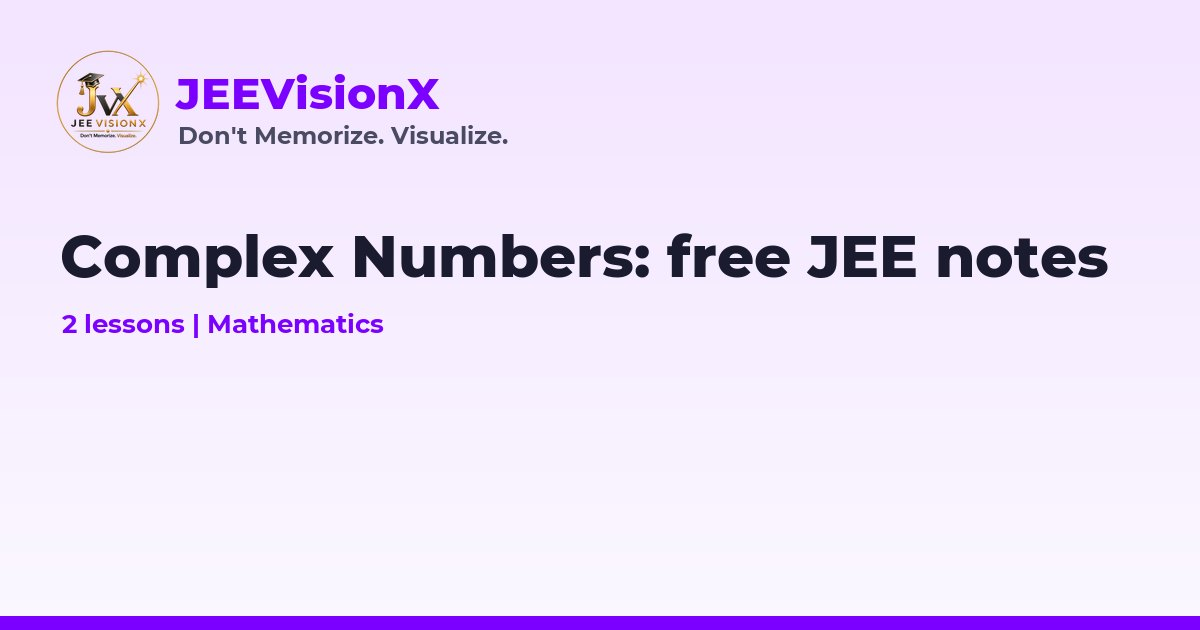
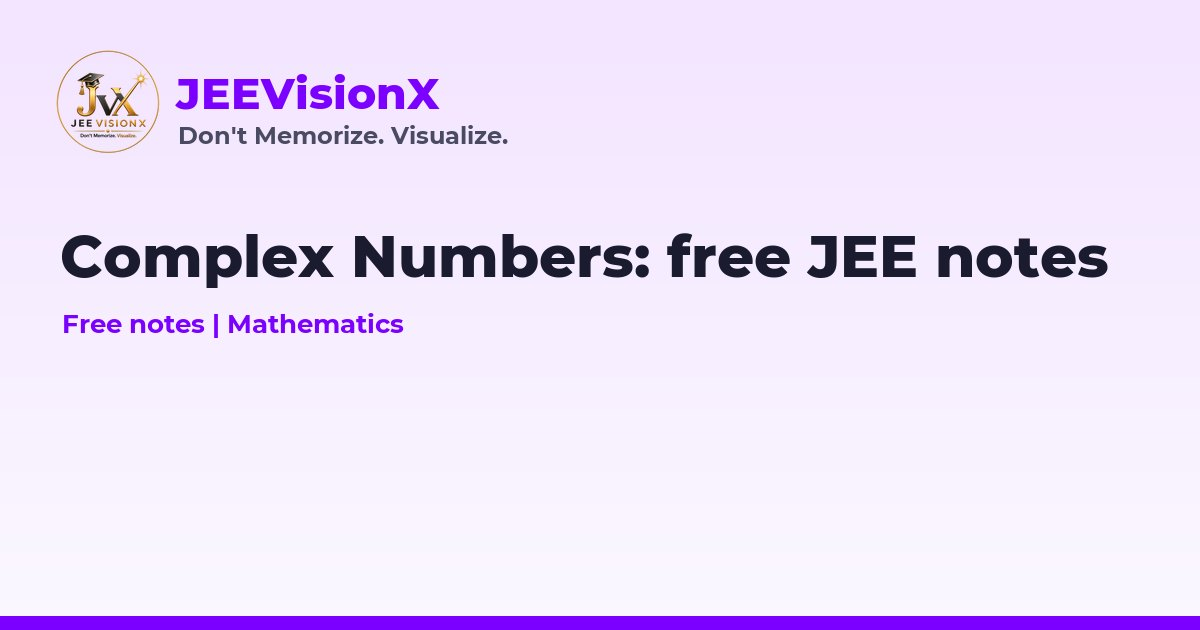
Notes listed only once the lesson's video is public; the next lesson shows as locked with its release time

Changed region(s): [[0.0308, 0.4825, 0.3392, 0.5429]]

diff --git a/maths/complex-numbers/index.html b/maths/complex-numbers/index.html
@@ -27,7 +27,7 @@
 <link rel="preconnect" href="https://fonts.gstatic.com" crossorigin>
 <link href="https://fonts.googleapis.com/css2?family=Montserrat:wght@600;800&family=Open+Sans:wght@400;600;700;800&display=swap" rel="stylesheet">
 <link rel="stylesheet" href="/assets/style.css">
-<script type="application/ld+json">{"@context": "https://schema.org", "@type": "CollectionPage", "name": "Complex Numbers notes", "url": "https://www.jeevisionx.com/maths/complex-numbers/", "description": "Complex numbers drawn on the Argand plane: modulus, argument, rotation and locus, one idea per lesson.", "isPartOf": {"@id": "https://www.jeevisionx.com/#website"}, "mainEntity": {"@type": "ItemList", "itemListElement": [{"@type": "ListItem", "position": 1, "url": "https://www.jeevisionx.com/maths/complex-numbers/m001-modulus-and-argument/", "name": "Modulus and Argument of a Complex Number"}, {"@type": "ListItem", "position": 2, "url": "https://www.jeevisionx.com/maths/complex-numbers/m002-multiplication-as-rotation/", "name": "Multiplication of Complex Numbers as Rotation"}]}}</script>
+<script type="application/ld+json">{"@context": "https://schema.org", "@type": "CollectionPage", "name": "Complex Numbers notes", "url": "https://www.jeevisionx.com/maths/complex-numbers/", "description": "Complex numbers drawn on the Argand plane: modulus, argument, rotation and locus, one idea per lesson.", "isPartOf": {"@id": "https://www.jeevisionx.com/#website"}, "mainEntity": {"@type": "ItemList", "itemListElement": []}}</script>
 <script type="application/ld+json">{"@context": "https://schema.org", "@type": "BreadcrumbList", "itemListElement": [{"@type": "ListItem", "position": 1, "name": "Home", "item": "https://www.jeevisionx.com/"}, {"@type": "ListItem", "position": 2, "name": "Mathematics", "item": "https://www.jeevisionx.com/maths/"}, {"@type": "ListItem", "position": 3, "name": "Complex Numbers", "item": "https://www.jeevisionx.com/maths/complex-numbers/"}]}</script>
 </head>
 <body>
@@ -49,7 +49,14 @@
 <p class="lead">Complex numbers drawn on the Argand plane: modulus, argument, rotation and locus, one idea per lesson.</p>
 </div></div>
 <section class="block"><div class="wrap"><div class="grid">
-<div class="card lesson-card">
+<div class="card lesson-card locked" data-until="2026-10-11T17:00:00+05:30">
+<div class="thumb"><img src="/maths/complex-numbers/m001-modulus-and-argument/fig1-arrow.webp" width="960" height="996" loading="lazy" alt=""><span class="lock-badge"><svg viewBox="0 0 24 24" aria-hidden="true" fill="none" stroke="currentColor" stroke-width="2" stroke-linecap="round" stroke-linejoin="round"><rect x="4.5" y="10.5" width="15" height="10" rx="2.5"/><path d="M8 10.5V7.5a4 4 0 0 1 8 0v3"/><circle cx="12" cy="15.5" r="1.2" fill="currentColor"/></svg></span></div>
+<div><span class="chip">Lesson 1</span>
+<h2>Modulus and Argument of a Complex Number</h2>
+<p>A complex number is a point, and also an arrow from the origin. Its modulus is how long the arrow is. Its argument is which way the arrow points.</p>
+<p class="coming"><svg viewBox="0 0 24 24" aria-hidden="true" fill="none" stroke="currentColor" stroke-width="2" stroke-linecap="round" stroke-linejoin="round"><rect x="4.5" y="10.5" width="15" height="10" rx="2.5"/><path d="M8 10.5V7.5a4 4 0 0 1 8 0v3"/><circle cx="12" cy="15.5" r="1.2" fill="currentColor"/></svg>Coming on Sunday, 11 October at 5 PM IST</p>
+<p class="muted" style="margin:0">The video and its free notes come out together.</p></div>
+</div><div class="card lesson-card" data-from="2026-10-11T17:00:00+05:30" hidden>
 <a class="thumb" href="/maths/complex-numbers/m001-modulus-and-argument/"><img src="/maths/complex-numbers/m001-modulus-and-argument/fig1-arrow.webp" width="960" height="996" loading="lazy" alt="The arrow from the origin to the point (3, 4): its length is 5 and theta is its angle with the real axis"></a>
 <div><span class="chip">Lesson 1</span>
 <h2><a href="/maths/complex-numbers/m001-modulus-and-argument/">Modulus and Argument of a Complex Number</a></h2>
@@ -58,7 +65,14 @@
 <div class="btns"><a class="btn primary small" href="/maths/complex-numbers/m001-modulus-and-argument/">Read online</a>
 <a target="_blank" rel="noopener" class="btn ghost small" href="m001-modulus-and-argument.pdf"><svg viewBox="0 0 24 24" aria-hidden="true" fill="none" stroke="currentColor" stroke-width="2" stroke-linecap="round" stroke-linejoin="round"><path d="M12 4v11M7 10l5 5 5-5M5 20h14"/></svg>Download PDF</a>
 <a target="_blank" rel="noopener" class="btn ghost small" href="https://www.youtube.com/@JEEVisionX"><svg viewBox="0 0 24 24" aria-hidden="true"><path d="M8 5.5v13l11-6.5z" fill="currentColor"/></svg>Watch on YouTube</a></div></div>
-</div><div class="card lesson-card">
+</div><div class="card lesson-card locked" data-from="2026-10-11T17:00:00+05:30" data-until="2026-10-14T17:00:00+05:30" hidden>
+<div class="thumb"><img src="/maths/complex-numbers/m002-multiplication-as-rotation/fig1-timesi.webp" width="960" height="580" loading="lazy" alt=""><span class="lock-badge"><svg viewBox="0 0 24 24" aria-hidden="true" fill="none" stroke="currentColor" stroke-width="2" stroke-linecap="round" stroke-linejoin="round"><rect x="4.5" y="10.5" width="15" height="10" rx="2.5"/><path d="M8 10.5V7.5a4 4 0 0 1 8 0v3"/><circle cx="12" cy="15.5" r="1.2" fill="currentColor"/></svg></span></div>
+<div><span class="chip">Lesson 2</span>
+<h2>Multiplication of Complex Numbers as Rotation</h2>
+<p>Multiplying by a complex number w turns the arrow by arg w and scales its length by |w|. The lengths multiply and the angles add, so one multiplication can rotate any point about the origin.</p>
+<p class="coming"><svg viewBox="0 0 24 24" aria-hidden="true" fill="none" stroke="currentColor" stroke-width="2" stroke-linecap="round" stroke-linejoin="round"><rect x="4.5" y="10.5" width="15" height="10" rx="2.5"/><path d="M8 10.5V7.5a4 4 0 0 1 8 0v3"/><circle cx="12" cy="15.5" r="1.2" fill="currentColor"/></svg>Coming on Wednesday, 14 October at 5 PM IST</p>
+<p class="muted" style="margin:0">The video and its free notes come out together.</p></div>
+</div><div class="card lesson-card" data-from="2026-10-14T17:00:00+05:30" hidden>
 <a class="thumb" href="/maths/complex-numbers/m002-multiplication-as-rotation/"><img src="/maths/complex-numbers/m002-multiplication-as-rotation/fig1-timesi.webp" width="960" height="580" loading="lazy" alt="The arrow to (3, 4) and the arrow to (-4, 3), both of length 5, with the quarter turn pi over 2 between them"></a>
 <div><span class="chip">Lesson 2</span>
 <h2><a href="/maths/complex-numbers/m002-multiplication-as-rotation/">Multiplication of Complex Numbers as Rotation</a></h2>
@@ -86,6 +100,15 @@ until it makes sense.</p></div>
 </div>
 <div class="copy">&copy; 2026 JEEVisionX. Notes are free to read, download and share with students.</div>
 </div></footer>
+<script>
+(function () {
+  var now = Date.now();
+  document.querySelectorAll("[data-from],[data-until]").forEach(function (el) {
+    var f = el.getAttribute("data-from"), u = el.getAttribute("data-until");
+    el.hidden = !((!f || now >= Date.parse(f)) && (!u || now < Date.parse(u)));
+  });
+})();
+</script>
 <div class="toast" id="toast" role="status">Link copied</div>
 <script>
 document.querySelectorAll("[data-share]").forEach((b) => b.addEventListener("click", async () => {

diff --git a/index.html b/index.html
@@ -52,8 +52,10 @@ practice set with answers. Free to read and download, with no sign up.</p>
 <div class="btns"><a class="btn primary" href="/maths/complex-numbers/">Browse the notes</a>
 <a target="_blank" rel="noopener" class="btn ghost" href="https://www.youtube.com/@JEEVisionX"><svg viewBox="0 0 24 24" aria-hidden="true"><rect x="1.5" y="5" width="21" height="14" rx="4" fill="#FF0000"/><path d="M10 9.2v5.6l4.8-2.8z" fill="#fff"/></svg>Watch on YouTube</a></div>
 </div>
-<figure class="hero-card"><a href="/maths/complex-numbers/m001-modulus-and-argument/"><img src="/maths/complex-numbers/m001-modulus-and-argument/fig1-arrow.webp" width="960" height="996" alt="The arrow from the origin to the point (3, 4): its length is 5 and theta is its angle with the real axis"></a>
-<figcaption>From the lesson: Modulus and Argument of a Complex Number</figcaption></figure>
+<figure class="hero-card"><div data-from="2026-10-11T17:00:00+05:30" hidden><a href="/maths/complex-numbers/m001-modulus-and-argument/"><img src="/maths/complex-numbers/m001-modulus-and-argument/fig1-arrow.webp" width="960" height="996" alt="The arrow from the origin to the point (3, 4): its length is 5 and theta is its angle with the real axis"></a>
+<figcaption>From the lesson: Modulus and Argument of a Complex Number</figcaption></div>
+<div data-until="2026-10-11T17:00:00+05:30"><img src="/maths/complex-numbers/m001-modulus-and-argument/fig1-arrow.webp" width="960" height="996" alt="The arrow from the origin to the point (3, 4): its length is 5 and theta is its angle with the real axis">
+<figcaption>From the first lesson, coming on Sunday, 11 October at 5 PM IST</figcaption></div></figure>
 </div></section>
 <section class="block"><div class="wrap">
 <h2>How a lesson works</h2>
@@ -65,7 +67,7 @@ practice set with answers. Free to read and download, with no sign up.</p>
 <section class="block alt"><div class="wrap">
 <h2>Free notes by chapter</h2>
 <p class="muted">Mathematics comes first, chapter by chapter. Physics and Chemistry will follow.</p>
-<div class="grid two" style="margin-top:18px"><a class="card chapter-card" href="/maths/complex-numbers/"><span class="chip">Mathematics</span><span class="chip">2 lessons</span><h3 style="margin-top:12px">Complex Numbers</h3><p class="muted" style="margin:0">Complex numbers drawn on the Argand plane: modulus, argument, rotation and locus, one idea per lesson.</p></a></div>
+<div class="grid two" style="margin-top:18px"><a class="card chapter-card" href="/maths/complex-numbers/"><span class="chip">Mathematics</span><span class="chip" data-until="2026-10-11T17:00:00+05:30">First lesson on 11 October</span><span class="chip" data-from="2026-10-11T17:00:00+05:30" data-until="2026-10-14T17:00:00+05:30" hidden>1 lesson</span><span class="chip" data-from="2026-10-14T17:00:00+05:30" hidden>2 lessons</span><h3 style="margin-top:12px">Complex Numbers</h3><p class="muted" style="margin:0">Complex numbers drawn on the Argand plane: modulus, argument, rotation and locus, one idea per lesson.</p></a></div>
 </div></section>
 <section class="block"><div class="wrap">
 <div class="card notify">
@@ -86,6 +88,15 @@ until it makes sense.</p></div>
 </div>
 <div class="copy">&copy; 2026 JEEVisionX. Notes are free to read, download and share with students.</div>
 </div></footer>
+<script>
+(function () {
+  var now = Date.now();
+  document.querySelectorAll("[data-from],[data-until]").forEach(function (el) {
+    var f = el.getAttribute("data-from"), u = el.getAttribute("data-until");
+    el.hidden = !((!f || now >= Date.parse(f)) && (!u || now < Date.parse(u)));
+  });
+})();
+</script>
 <div class="toast" id="toast" role="status">Link copied</div>
 <script>
 document.querySelectorAll("[data-share]").forEach((b) => b.addEventListener("click", async () => {

diff --git a/maths/complex-numbers/m001-modulus-and-argument/index.html b/maths/complex-numbers/m001-modulus-and-argument/index.html
@@ -6,7 +6,7 @@
 <title>Modulus and Argument of a Complex Number: Free Notes | JEEVisionX</title>
 <meta name="description" content="A complex number is a point, and also an arrow from the origin. Its modulus is how long the arrow is. Its argument is which way the arrow points.">
 <link rel="canonical" href="https://www.jeevisionx.com/maths/complex-numbers/m001-modulus-and-argument/">
-<meta name="robots" content="index, follow, max-image-preview:large">
+<meta name="robots" content="noindex">
 <meta name="theme-color" content="#7C00FF">
 <meta property="og:site_name" content="JEEVisionX">
 <meta property="og:type" content="article">
@@ -189,7 +189,7 @@ bottom by \(1 + i\): \(\dfrac{(1 + i)^2}{(1 - i)(1 + i)} = \dfrac{2i}{2} = i\), 
 <h2>Keep these notes</h2>
 <p class="muted">The same notes as a printable PDF, with the practice set and answers.</p>
 <div class="btns"><a target="_blank" rel="noopener" class="btn primary" href="/maths/complex-numbers/m001-modulus-and-argument.pdf"><svg viewBox="0 0 24 24" aria-hidden="true" fill="none" stroke="currentColor" stroke-width="2" stroke-linecap="round" stroke-linejoin="round"><path d="M12 4v11M7 10l5 5 5-5M5 20h14"/></svg>Download the PDF</a><a target="_blank" rel="noopener" class="btn ghost" href="https://www.youtube.com/@JEEVisionX"><svg viewBox="0 0 24 24" aria-hidden="true"><path d="M8 5.5v13l11-6.5z" fill="currentColor"/></svg>Watch on YouTube</a><button type="button" class="btn ghost" data-share><svg viewBox="0 0 24 24" aria-hidden="true" fill="none" stroke="currentColor" stroke-width="2" stroke-linecap="round"><circle cx="18" cy="5" r="2.6"/><circle cx="6" cy="12" r="2.6"/><circle cx="18" cy="19" r="2.6"/><path d="M8.3 10.8l7.4-4.4M8.3 13.2l7.4 4.4"/></svg>Share</button></div>
-<div class="btns"><a class="btn ghost small" href="/maths/complex-numbers/m002-multiplication-as-rotation/">Next: Multiplication of Complex Numbers as Rotation</a></div>
+<div class="btns"><a class="btn ghost small" href="/maths/complex-numbers/m002-multiplication-as-rotation/" data-from="2026-10-14T17:00:00+05:30" hidden>Next: Multiplication of Complex Numbers as Rotation</a></div>
 </div>
 </div>
 </main>
@@ -205,6 +205,15 @@ until it makes sense.</p></div>
 </div>
 <div class="copy">&copy; 2026 JEEVisionX. Notes are free to read, download and share with students.</div>
 </div></footer>
+<script>
+(function () {
+  var now = Date.now();
+  document.querySelectorAll("[data-from],[data-until]").forEach(function (el) {
+    var f = el.getAttribute("data-from"), u = el.getAttribute("data-until");
+    el.hidden = !((!f || now >= Date.parse(f)) && (!u || now < Date.parse(u)));
+  });
+})();
+</script>
 <div class="toast" id="toast" role="status">Link copied</div>
 <script>
 document.querySelectorAll("[data-share]").forEach((b) => b.addEventListener("click", async () => {

diff --git a/maths/index.html b/maths/index.html
@@ -47,7 +47,7 @@
 <h1>Mathematics</h1>
 <p class="lead">Free notes and animated lessons, chapter by chapter.</p>
 </div></div>
-<section class="block"><div class="wrap"><div class="grid two"><a class="card chapter-card" href="/maths/complex-numbers/"><span class="chip">Mathematics</span><span class="chip">2 lessons</span><h3 style="margin-top:12px">Complex Numbers</h3><p class="muted" style="margin:0">Complex numbers drawn on the Argand plane: modulus, argument, rotation and locus, one idea per lesson.</p></a></div></div></section>
+<section class="block"><div class="wrap"><div class="grid two"><a class="card chapter-card" href="/maths/complex-numbers/"><span class="chip">Mathematics</span><span class="chip" data-until="2026-10-11T17:00:00+05:30">First lesson on 11 October</span><span class="chip" data-from="2026-10-11T17:00:00+05:30" data-until="2026-10-14T17:00:00+05:30" hidden>1 lesson</span><span class="chip" data-from="2026-10-14T17:00:00+05:30" hidden>2 lessons</span><h3 style="margin-top:12px">Complex Numbers</h3><p class="muted" style="margin:0">Complex numbers drawn on the Argand plane: modulus, argument, rotation and locus, one idea per lesson.</p></a></div></div></section>
 </main>
 <footer class="site-footer"><div class="wrap">
 <div class="cols">
@@ -61,6 +61,15 @@ until it makes sense.</p></div>
 </div>
 <div class="copy">&copy; 2026 JEEVisionX. Notes are free to read, download and share with students.</div>
 </div></footer>
+<script>
+(function () {
+  var now = Date.now();
+  document.querySelectorAll("[data-from],[data-until]").forEach(function (el) {
+    var f = el.getAttribute("data-from"), u = el.getAttribute("data-until");
+    el.hidden = !((!f || now >= Date.parse(f)) && (!u || now < Date.parse(u)));
+  });
+})();
+</script>
 <div class="toast" id="toast" role="status">Link copied</div>
 <script>
 document.querySelectorAll("[data-share]").forEach((b) => b.addEventListener("click", async () => {

diff --git a/maths/complex-numbers/m002-multiplication-as-rotation/index.html b/maths/complex-numbers/m002-multiplication-as-rotation/index.html
@@ -6,7 +6,7 @@
 <title>Multiplication of Complex Numbers as Rotation: Free Notes | JEEVisionX</title>
 <meta name="description" content="Multiplying by a complex number w turns the arrow by arg w and scales its length by |w|. The lengths multiply and the angles add, so one multiplication can rotate any point about the origin.">
 <link rel="canonical" href="https://www.jeevisionx.com/maths/complex-numbers/m002-multiplication-as-rotation/">
-<meta name="robots" content="index, follow, max-image-preview:large">
+<meta name="robots" content="noindex">
 <meta name="theme-color" content="#7C00FF">
 <meta property="og:site_name" content="JEEVisionX">
 <meta property="og:type" content="article">
@@ -242,6 +242,15 @@ until it makes sense.</p></div>
 </div>
 <div class="copy">&copy; 2026 JEEVisionX. Notes are free to read, download and share with students.</div>
 </div></footer>
+<script>
+(function () {
+  var now = Date.now();
+  document.querySelectorAll("[data-from],[data-until]").forEach(function (el) {
+    var f = el.getAttribute("data-from"), u = el.getAttribute("data-until");
+    el.hidden = !((!f || now >= Date.parse(f)) && (!u || now < Date.parse(u)));
+  });
+})();
+</script>
 <div class="toast" id="toast" role="status">Link copied</div>
 <script>
 document.querySelectorAll("[data-share]").forEach((b) => b.addEventListener("click", async () => {

diff --git a/assets/style.css b/assets/style.css
@@ -139,6 +139,14 @@ ul.for-list li { margin:0 0 10px; }
 .site-footer .fbrand { font:800 22px Montserrat, sans-serif; color:#fff; }
 .site-footer .copy { border-top:1px solid #34344F; margin-top:30px; padding-top:16px; font-size:13px; color:#9A9AB5; }
 
+[hidden] { display:none !important; }
+.lesson-card.locked { background:var(--panel); box-shadow:none; }
+.lesson-card.locked .thumb { position:relative; overflow:hidden; }
+.lesson-card.locked .thumb img { filter:grayscale(1) blur(3px); opacity:.45; }
+.lock-badge { position:absolute; inset:0; display:flex; align-items:center; justify-content:center; }
+.lock-badge svg { width:56px; height:56px; color:var(--head); }
+.coming { display:flex; align-items:center; gap:8px; font-weight:700; color:var(--head); margin:0 0 8px; }
+.coming svg { width:20px; height:20px; flex:none; }
 .toast { position:fixed; left:50%; bottom:24px; transform:translateX(-50%); background:var(--ink); color:#fff;
   padding:10px 16px; border-radius:8px; font-size:14px; opacity:0; transition:opacity .2s; pointer-events:none; z-index:20; }
 .toast.on { opacity:1; }

diff --git a/about/index.html b/about/index.html
@@ -118,6 +118,15 @@ until it makes sense.</p></div>
 </div>
 <div class="copy">&copy; 2026 JEEVisionX. Notes are free to read, download and share with students.</div>
 </div></footer>
+<script>
+(function () {
+  var now = Date.now();
+  document.querySelectorAll("[data-from],[data-until]").forEach(function (el) {
+    var f = el.getAttribute("data-from"), u = el.getAttribute("data-until");
+    el.hidden = !((!f || now >= Date.parse(f)) && (!u || now < Date.parse(u)));
+  });
+})();
+</script>
 <div class="toast" id="toast" role="status">Link copied</div>
 <script>
 document.querySelectorAll("[data-share]").forEach((b) => b.addEventListener("click", async () => {

diff --git a/404.html b/404.html
@@ -54,6 +54,15 @@ until it makes sense.</p></div>
 </div>
 <div class="copy">&copy; 2026 JEEVisionX. Notes are free to read, download and share with students.</div>
 </div></footer>
+<script>
+(function () {
+  var now = Date.now();
+  document.querySelectorAll("[data-from],[data-until]").forEach(function (el) {
+    var f = el.getAttribute("data-from"), u = el.getAttribute("data-until");
+    el.hidden = !((!f || now >= Date.parse(f)) && (!u || now < Date.parse(u)));
+  });
+})();
+</script>
 <div class="toast" id="toast" role="status">Link copied</div>
 <script>
 document.querySelectorAll("[data-share]").forEach((b) => b.addEventListener("click", async () => {
